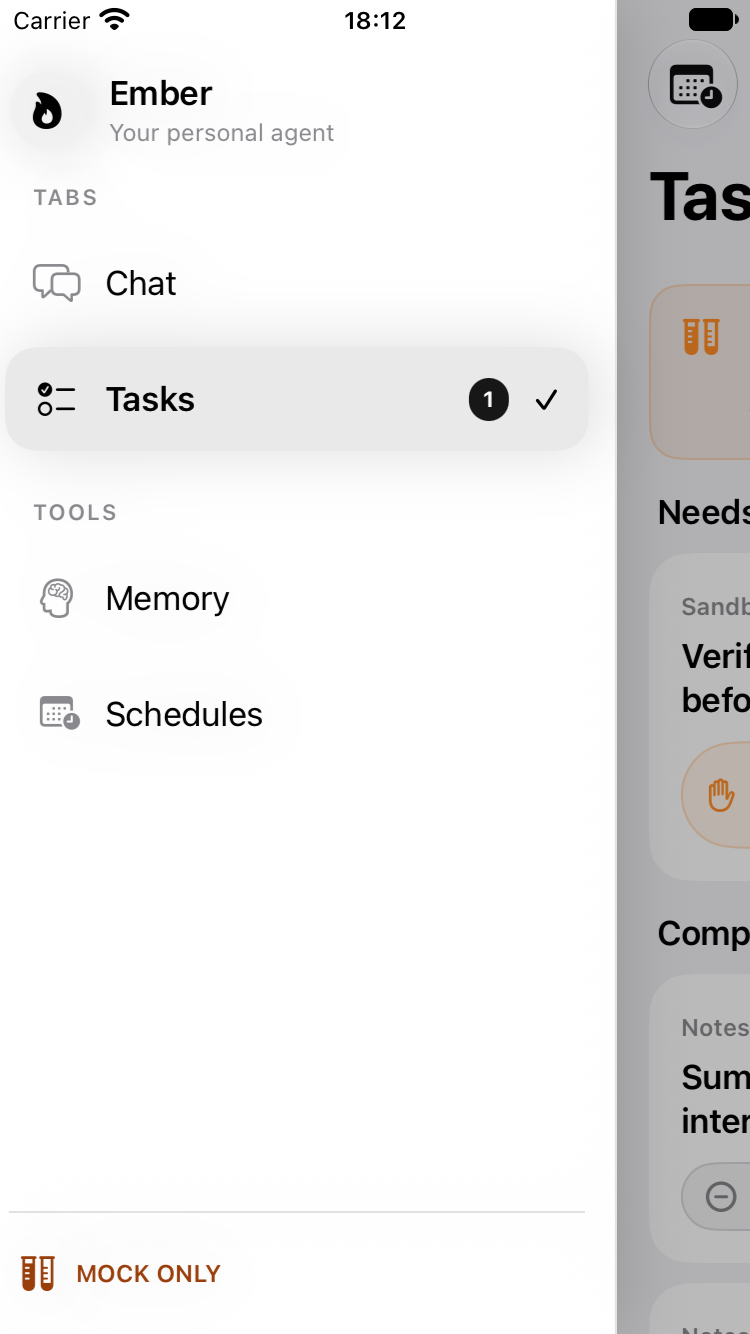
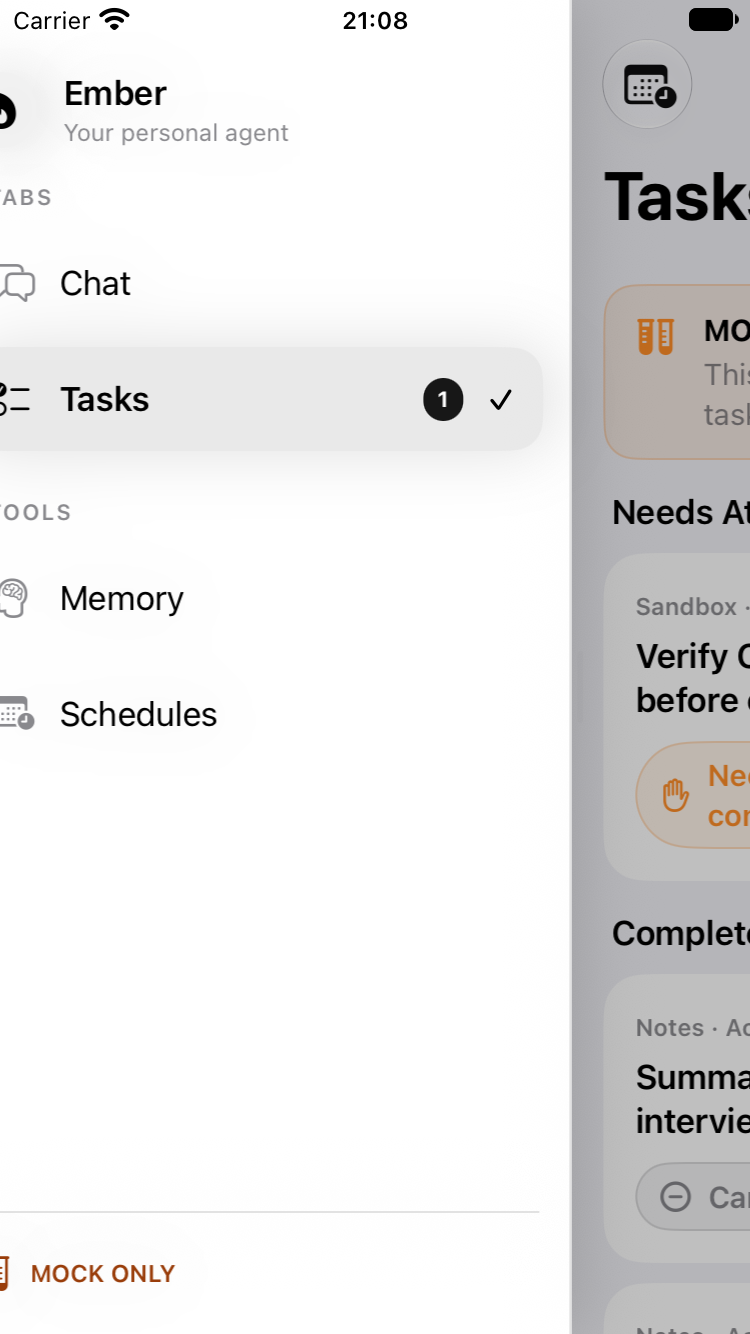
docs(ios): update NAV-02 PR #284 evidence after keyboard and 375pt spot checks

diff --git a/apps/ios/evidence/nav02-pr284/README.md b/apps/ios/evidence/nav02-pr284/README.md
@@ -1,35 +1,31 @@
 # NAV-02 PR #284 Simulator Verification Evidence
 
-Verified on commit `bbda443a4c68c1ee7a91f17ec8c290bfeb15d4fb` (`feat/ios-nav02-sidebar-directory`), and additionally verified in a clean temporary local merge (`PR #287 @ 9b407260eddc30ff717373a3d083a23a8d4dc46e` + `PR #284 @ bbda443a4c68c1ee7a91f17ec8c290bfeb15d4fb`).
+Verified on commit `f04725bbe747443f8aed6f2e593e99687236468e` (`feat/ios-nav02-sidebar-directory`), and additionally verified in a clean temporary local merge (`PR #287 @ 9b407260eddc30ff717373a3d083a23a8d4dc46e` + `PR #284 @ f04725bbe747443f8aed6f2e593e99687236468e`).
 
-## Review P1 / P2 Fixes & Interaction Highlights
+## Review P1 / P2 Fixes & Spot-Check Verification
 - **P1 — Discoverable & Assistive-Tech Accessible Sidebar Entry (without top-left toggle buttons):**
-  - Preserved the clean monochrome header without adding a top-left toggle button (`ConversationScreen.swift` untouched; `TaskInboxView.swift` keeps `tasks-open-schedules` in `.topBarLeading`).
-  - Added a visually discreet monochrome left-edge pull cue pill (`ember-sidebar-edge-hint`, `3pt × 36pt` at `padding(.leading, 3)`, fading `(1 - progress)`, `.allowsHitTesting(false)`, `.accessibilityHidden(true)`) so sighted users discover the left-edge swipe naturally without blocking touches.
-  - Added focusable native `Menu` items to open the Sidebar (`"sidebar.open"`) on both root tabs: `live-conversation-open-sidebar` inside Chat's `>= 44x44pt` `live-conversation-menu` (`...`), and `tasks-open-sidebar` inside Tasks' `.topBarTrailing` `tasks-navigation-menu` (`...`), alongside `ember-sidebar-backdrop` (`>= 44pt`) and `.accessibilityAction(.escape)` for closing.
-- **P2 — Initial-Touch Position Edge Detection & Scroll Coexistence:**
-  - Replaced recognition-time `pan.location(in: window).x` with `EdgeStartPanGestureRecognizer.initialTouchX` captured immediately in `touchesBegan` (cleared in `reset()`) for both `gestureRecognizerShouldBegin` and `shouldBeRequiredToFailBy`.
-  - Added automated boundary tests proving an outer-edge start at `x ≈ 35pt` (`<= 40pt`, crossing `x > 40pt` before recognition) opens the Sidebar reliably, while content-area starts (`x ≈ 120pt`), left-edge vertical scrolls, and horizontal `ScrollView` preset chips inside sheets stay unaffected.
-- **Visual V1 Monochrome & Navigation:**
-  - `EmberSidebarOverlay` matches the Black / White / Grayscale palette (`#FFFFFF`/`#202020`, `#F3F3F3`/`#292929`, `#E9E9E9`/`#383838`, `#E3E3E3`/`#454545`), preserving amber `MOCK ONLY` disclosure and red Sign Out outside Mock mode; preserves Chat drafts and Tasks state across Sidebar navigation.
+  - Preserved the clean monochrome header (`ConversationScreen.swift` untouched; `TaskInboxView.swift` keeps `tasks-open-schedules` in `.topBarLeading`).
+  - Discreet monochrome left-edge pull cue pill (`ember-sidebar-edge-hint`, `3pt × 36pt` at `padding(.leading, 3)`, fading `(1 - progress)`, `.allowsHitTesting(false)`, `.accessibilityHidden(true)`).
+  - Focusable native `Menu` items on both root tabs (`live-conversation-open-sidebar` inside Chat's `>= 44x44pt` `live-conversation-menu`, and `tasks-open-sidebar` inside Tasks' `.topBarTrailing` `tasks-navigation-menu`), plus `ember-sidebar-backdrop` (`>= 44pt`, non-empty accessibility label) and `.accessibilityAction(.escape)` for closing.
+- **Keyboard & Draft Spot-Check (Review Item #3):**
+  - `setSidebarPresented(_ present: Bool, ...)` now sends `resignFirstResponder` whenever `present == true` (covers menu open, VoiceOver action, and programmatic open in addition to interactive swipe), verified with `app.keyboards.count == 0` and preserved unsent Chat draft after menu-triggered open on both 402pt and 375pt.
+- **P2 — Initial-Touch Edge Boundary & Scroll Coexistence:**
+  - `EdgeStartPanGestureRecognizer.initialTouchX` captured in `touchesBegan` (`reset()` on finish) across both `gestureRecognizerShouldBegin` and `shouldBeRequiredToFailBy`.
+  - Automated boundary tests pass on **402pt** (`iPhone 18 Pro`) and **375pt** (`iPhone SE 3rd gen`): `x ≈ 32–35pt` (`<= 40pt`) opens cleanly even when movement crosses `40pt` before recognition; content-area horizontal swipes, left-edge vertical scroll, pushed `TaskDetailView` pop back, and horizontal `ScrollView` preset chips inside sheets stay unaffected.
 
 ## Test Commands & Observed Results (iOS 27.2 Simulator)
 
-1. **PR #284 (`bbda443a4c68c1ee7a91f17ec8c290bfeb15d4fb`) — `iPhone 18 Pro` (`402pt`, Light, EN + `zh-Hans` `AXLarge`):**
+1. **PR #284 (`f04725bbe747443f8aed6f2e593e99687236468e`) — `iPhone 18 Pro` (`402pt`, Light, EN + `zh-Hans` `AXLarge`):**
    - `EmberSidebarUITests`: **4/4 passed** (0 failures)
    - `B3ChatTasksIntegrationUITests`: **5/5 passed** (0 failures)
    - `ConversationRootLaunchUITests`: **4/4 passed** (0 failures)
    - Total: **13/13 passed** (`** TEST SUCCEEDED **`)
 
-2. **PR #284 — Genuine System Dark Mode (`xcrun simctl ui ... appearance dark`, `zh-Hans`, `AXLarge`, `402pt`):**
[1 lines of base64/hex data omitted]
+2. **PR #284 (`f04725bbe747443f8aed6f2e593e99687236468e`) — `iPhone SE (3rd generation)` (`375pt`, Mock Mode):**
+   - `EmberSidebarUITests`: **4/4 passed** (0 failures — leading Schedules + trailing `+`, `refresh`, and `tasks-navigation-menu` open/close cleanly without overlap; `deviceMonitor` is nil in mock mode).
 
-3. **Earlier Small-Screen Edge-Swipe Verification (`f2296549` baseline before P1/P2 menu & `initialTouchX` refinement):**
-   - `iPhone SE (3rd generation)` (`375pt`): `EmberSidebarUITests` **3/3 passed**
-   - `iPhone 16` (`393pt`): `EmberSidebarUITests` **1/1 passed** (`04`, `05`, `06` screenshots)
-
-4. **Combined Integration (`PR #287 @ 9b407260eddc30ff717373a3d083a23a8d4dc46e` + `PR #284 @ bbda443a4c68c1ee7a91f17ec8c290bfeb15d4fb`):**
-   - Shared files with `#287`: **2** (`Conversation.xcstrings` and `LiveConversationHost.swift`), **0 textual conflicts** (`git merge-tree --write-tree` tree `cc3c0846d05ca7a43f96fc3150c285be49d9c301`).
+3. **Combined Integration (`PR #287 @ 9b407260eddc30ff717373a3d083a23a8d4dc46e` + `PR #284 @ f04725bbe747443f8aed6f2e593e99687236468e`):**
+   - Shared files with `#287`: **2** (`Conversation.xcstrings` and `LiveConversationHost.swift`), **0 textual conflicts** (`git merge-tree --write-tree` tree `753216a00fe5997d752e63cc9eb20cf43fac2b53`).
    - Combined `test` on `iPhone 18 Pro` (`402pt`):
      - `EmberChatMonochromeTokensTests`: **2/2 passed**
      - `EmberMonochromeChatUITests`: **4/4 passed**
@@ -38,11 +34,11 @@ Verified on commit `bbda443a4c68c1ee7a91f17ec8c290bfeb15d4fb` (`feat/ios-nav02-s
      - Total: **15/15 passed** (`** TEST SUCCEEDED **`)
 
 ## Screenshots
-- `01-sidebar-chat-light-402pt.png` — Light Mode, EN, `iPhone 18 Pro` (`bbda443`), edge-swipe Sidebar open alongside shifted Chat
-- `02-sidebar-tasks-light-402pt.png` — Light Mode, EN, `iPhone 18 Pro` (`bbda443`), edge-swipe Sidebar open alongside shifted Tasks
-- `03-sidebar-chat-dark-zhhans-axlarge-402pt.png` — System Dark Mode, `zh-Hans`, `AXLarge`, `iPhone 18 Pro` (`bbda443`)
+- `01-sidebar-chat-light-402pt.png` — Light Mode, EN, `iPhone 18 Pro` (`f04725b`)
+- `02-sidebar-tasks-light-402pt.png` — Light Mode, EN, `iPhone 18 Pro` (`f04725b`)
+- `03-sidebar-chat-dark-zhhans-axlarge-402pt.png` — System Dark Mode, `zh-Hans`, `AXLarge`, `iPhone 18 Pro` (`bbda443`, UI unchanged in `f04725b`)
 - `04-sidebar-chat-light-393pt-iphone16.png` — Light Mode, EN, `iPhone 16` (`393pt`, `f2296549`)
-- `05-sidebar-chat-light-375pt-iphonese3.png` — Light Mode, EN, `iPhone SE (3rd generation)` (`375pt`, `f2296549`)
-- `06-sidebar-tasks-light-375pt-iphonese3.png` — Light Mode, EN, `iPhone SE (3rd generation)` (`375pt`, `f2296549`)
-- `07-combined-pr287-pr284-chat-sidebar-light-402pt.png` — Combined `#287 + #284` (`bbda443`), Light Mode, EN, `iPhone 18 Pro`
-- `08-combined-pr287-pr284-chat-monochrome-header-402pt.png` — Combined `#287 + #284` (`bbda443`), Light Mode, EN, `iPhone 18 Pro`
+- `05-sidebar-chat-light-375pt-iphonese3.png` — Light Mode, EN, `iPhone SE (3rd generation)` (`375pt`, `f04725b`)
+- `06-sidebar-tasks-light-375pt-iphonese3.png` — Light Mode, EN, `iPhone SE (3rd generation)` (`375pt`, `f04725b`)
+- `07-combined-pr287-pr284-chat-sidebar-light-402pt.png` — Combined `#287 + #284` (`f04725b`), Light Mode, EN, `iPhone 18 Pro`
+- `08-combined-pr287-pr284-chat-monochrome-header-402pt.png` — Combined `#287 + #284` (`f04725b`), Light Mode, EN, `iPhone 18 Pro`
